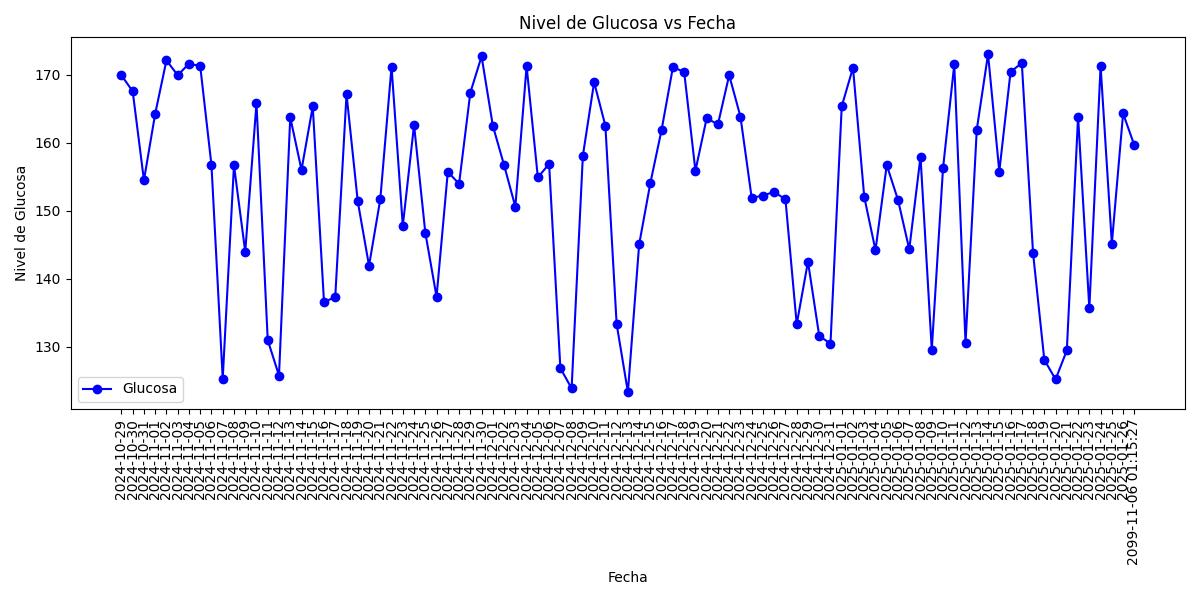
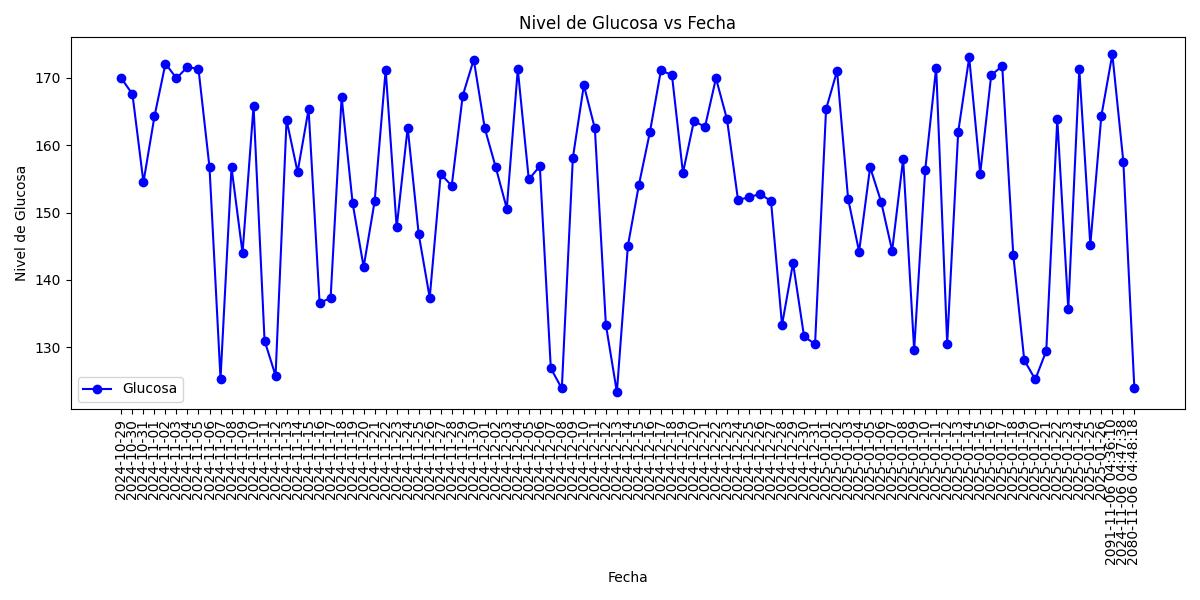
Entradas de datos individuales, ventana de reporte eliminada, ajuste de imagen

diff --git a/src/screens/EntriesScreen.js b/src/screens/EntriesScreen.js
@@ -15,12 +15,15 @@ import { getFirestore, collection, addDoc } from "firebase/firestore";
 import { getAuth } from "firebase/auth";
 import DateTimePicker from '@react-native-community/datetimepicker';
 import { Platform } from 'react-native';
+import axios from 'axios';
+import { Alert } from 'react-native';
+import { IPHOSTLOCAL } from "@env";
 
 const EntriesScreen = () => {
-  const [NivelGlucosa, setNivelGlucosa] = useState('');
+  const [Pasos, setPasos] = useState('');
   const [CarbIngeridos, setCarbIngeridos] = useState('');
-  const [UnidadesInsulina, setUnidadesInsulina] = useState('');
-  const [UnidadesCorrecion, setUnidadesCorrecion] = useState('');
+  const [TasaBasal, setTasaBasal] = useState('');
+  const [VolumenBoloAdministrado, setVolumenBoloAdministrado] = useState('');
   const [RitmoCardiaco, setRitmoCardiaco] = useState('');
   const [CaloriasQuemadas, setCaloriasQuemadas] = useState('');
   const [Fecha, setFecha] = useState(new Date());
@@ -32,34 +35,51 @@ const EntriesScreen = () => {
   const auth = getAuth();
 
   const cleanForm = () => {
-    setNivelGlucosa('');
+    setPasos('');
     setCarbIngeridos('');
-    setUnidadesInsulina('');
-    setUnidadesCorrecion('');
+    setTasaBasal('');
+    setVolumenBoloAdministrado('');
     setRitmoCardiaco('');
     setCaloriasQuemadas('');
     setFecha(new Date());
   };
+  const fetchData = async (endpoint) => {
+    const user = auth.currentUser;
+  
+    try {
+      const response = await axios.get(`${IPHOSTLOCAL}/api/${endpoint}/${user.uid}`, {
+        timeout: 10000,
+      });
+      Alert.alert('Success', response.data.message);
+    } catch (error) {
+      console.error(error);
+      const message = error.response ? error.response.data.message : 'Error de conexión';
+      Alert.alert('Error', message);
+    }
+  };
+  
 
   const handleAddEntry = async () => {
     const user = auth.currentUser;
-
+  
     if (user) {
       const entryData = {
         userId: user.uid,
-        NivelGlucosa,
-        CarbIngeridos,
-        UnidadesInsulina,
-        UnidadesCorrecion,
-        RitmoCardiaco,
         CaloriasQuemadas,
+        RitmoCardiaco,
+        Pasos,
+        TasaBasal,
+        VolumenBoloAdministrado,
+        CarbIngeridos,        
         Fecha,
         createdAt: new Date()
       };
-
+  
       try {
         await addDoc(collection(db, 'entries'), entryData);
         setModalMessage('Entrada añadida correctamente');
+        // Llamar fetchData después de añadir la entrada
+        await fetchData('ModeloEntradaIndividual'); 
       } catch (error) {
         setModalMessage('Error al añadir la entrada');
         console.error('Error al añadir la entrada: ', error);
@@ -72,6 +92,7 @@ const EntriesScreen = () => {
       cleanForm();
     }
   };
+  
 
   const handleDateChange = (event, selectedDate) => {
     if (event.type === "set" && selectedDate) {
@@ -99,18 +120,18 @@ const EntriesScreen = () => {
               </Text>
 
               <FormControl>
-                <FormControl.Label _text={{ color: 'black' }}>Nivel de glucosa</FormControl.Label>
+                <FormControl.Label _text={{ color: 'black' }}>Pasos</FormControl.Label>
                 <Input
-                  value={NivelGlucosa}
-                  onChangeText={setNivelGlucosa}
+                  value={Pasos}
+                  onChangeText={setPasos}
                   bg="white"
-                  placeholder="mg/dL"
+                  placeholder="0"
                   keyboardType="numeric"
                 />
               </FormControl>
 
               <FormControl>
-                <FormControl.Label _text={{ color: 'black' }}>Carbohidratos a consumir</FormControl.Label>
+                <FormControl.Label _text={{ color: 'black' }}>Carbohidratos Ingeridos</FormControl.Label>
                 <Input
                   value={CarbIngeridos}
                   onChangeText={setCarbIngeridos}
@@ -121,10 +142,10 @@ const EntriesScreen = () => {
               </FormControl>
 
               <FormControl>
-                <FormControl.Label _text={{ color: 'black' }}>Unidades de insulina</FormControl.Label>
+                <FormControl.Label _text={{ color: 'black' }}>Tasa Basal</FormControl.Label>
                 <Input
-                  value={UnidadesInsulina}
-                  onChangeText={setUnidadesInsulina}
+                  value={TasaBasal}
+                  onChangeText={setTasaBasal}
                   bg="white"
                   placeholder="UI"
                   keyboardType="numeric"
@@ -132,12 +153,12 @@ const EntriesScreen = () => {
               </FormControl>
 
               <FormControl>
-                <FormControl.Label _text={{ color: 'black' }}>Unidades de corrección</FormControl.Label>
+                <FormControl.Label _text={{ color: 'black' }}>Volumen Bolo Administrado</FormControl.Label>
                 <Input
-                  value={UnidadesCorrecion}
-                  onChangeText={setUnidadesCorrecion}
+                  value={VolumenBoloAdministrado}
+                  onChangeText={setVolumenBoloAdministrado}
                   bg="white"
-                  placeholder="UI"
+                  placeholder="mg/dL"
                   keyboardType="numeric"
                 />
               </FormControl>

diff --git a/src/screens/DashboardScreen.js b/src/screens/DashboardScreen.js
@@ -77,28 +77,36 @@ const DashboardScreen = () => {
 
   return (
     <NativeBaseProvider>
-      <Center flex={1} bg="gray.100">
-        <ScrollView>
-          <Center>
-            {imageUri ? (
-              <Image source={{ uri: imageUri }} alt="Imagen de predicción" size="2xl" />
-            ) : (
-              <Text color="gray.500">Imagen no disponible</Text>
-            )}
-          </Center>
-
-          <VStack space={2} mt={4}>
-            {csvData.length > 0 ? (
-              csvData.map((row, index) => (
-                <Text key={index} color="gray.700">{row.join(', ')}</Text>
-              ))
-            ) : (
-              <Text color="gray.500">Contenido del CSV aparecerá aquí...</Text>
-            )}
-          </VStack>
-        </ScrollView>
+  <Center flex={1} bg="gray.100">
+    <ScrollView>
+      <Center>
+        {imageUri ? (
+          <Image
+            source={{ uri: imageUri }}
+            alt="Imagen de predicción"
+            width={400} // Esto hará que la imagen ocupe el 100% del ancho disponible
+            height={200} // Ajusta la altura según lo que necesites (puedes cambiar este valor)
+          />
+        ) : (
+          <Text color="gray.500">Imagen no disponible</Text>
+        )}
       </Center>
-    </NativeBaseProvider>
+
+      <Center>  
+      <VStack space={2} mt={4}>
+        {csvData.length > 0 ? (
+          csvData.map((row, index) => (
+            <Text key={index} color="gray.700">{row.join(', ')}</Text>
+          ))
+        ) : (
+          <Text color="gray.500">Contenido del CSV aparecerá aquí...</Text>
+        )}
+      </VStack>
+      </Center>
+    </ScrollView>
+  </Center>
+</NativeBaseProvider>
+
   );
 };
 

diff --git a/src/screens/Home.js b/src/screens/Home.js
@@ -23,9 +23,7 @@ const Home = () => {
             iconName = 'home'; 
           } else if (route.name === 'Entries') {
             iconName = 'calendar'; 
-          } else if (route.name === 'Reports') {
-            iconName = 'bar-chart';
-          } else if (route.name === 'Profile') {
+          }else if (route.name === 'Profile') {
             iconName = 'user';
           } else if (route.name === 'Model') {
             iconName = 'codepen';
@@ -38,7 +36,6 @@ const Home = () => {
     >
       <Tab.Screen name="Dashboard" component={DashboardScreen} />
       <Tab.Screen name="Entries" component={EntriesScreen} />
-      <Tab.Screen name="Reports" component={ReportScreen} />
       <Tab.Screen name="Model" component={ModelScreen} />
       <Tab.Screen name="Profile" component={ProfileScreen} />
     </Tab.Navigator>

diff --git a/BackEnd/app.py b/BackEnd/app.py
@@ -3,8 +3,19 @@ import os
 import threading
 from entrenar import procesar_glucosa
 from entrenarIndividual import procesar_glucosaIndividual
+import firebase_admin
+from firebase_admin import credentials, firestore
+
+# Inicializar Firebase fuera de cualquier función
+if not firebase_admin._apps:
+    cred = credentials.Certificate('BackEnd/appdiabetes-75037-firebase-adminsdk-cm6u3-4b8d33055b.json')  # Reemplaza con la ruta a tu archivo JSON
+    firebase_admin.initialize_app(cred)
+
+db = firestore.client()
 
 app = Flask(__name__)
+
+
 
 BASE_DIR = os.path.dirname(os.path.abspath(__file__))  # Ruta del archivo actual
 UPLOAD_FOLDER = os.path.join(BASE_DIR, 'uploads')
@@ -20,6 +31,16 @@ def train_model_in_background(file_path):
     except Exception as e:
         print(f"Error al procesar el archivo: {str(e)}")
 
+
+def train_model_individual(userID):
+    try:
+        procesar_glucosaIndividual(userID)
+        print(f"Modelo actualizado para el usuario: '{userID}'.")
+    except Exception as e:
+        print(f"Error al procesar la petición: {str(e)}")
+
+
+
 @app.route('/api/train-model/<user_id>', methods=['GET'])
 def train_model(user_id):
     file_path = os.path.join(UPLOAD_FOLDER, f'{user_id}_latest.csv')
@@ -29,6 +50,13 @@ def train_model(user_id):
     
     threading.Thread(target=train_model_in_background, args=(file_path,)).start()
     return jsonify(message="Entrenamiento del modelo iniciado."), 202
+    
+@app.route('/api/ModeloEntradaIndividual/<user_id>', methods=['GET'])
+def train_modelInd(user_id):    
+    threading.Thread(target=train_model_individual, args=(user_id,)).start()
+    return jsonify(message="Entrenamiento del modelo actualizado iniciado."), 202
+
+
 
 @app.route('/api/upload-csv/<user_id>', methods=['POST'])
 def upload_csv(user_id):

diff --git a/BackEnd/entrenarIndividual.py b/BackEnd/entrenarIndividual.py
@@ -8,10 +8,7 @@ import re
 
 def procesar_glucosaIndividual(user_id):
     # Inicializar la aplicación de Firebase Admin
-    cred = credentials.Certificate('BackEnd/appdiabetes-75037-firebase-adminsdk-cm6u3-4b8d33055b.json')  # Reemplaza con la ruta a tu archivo JSON
-    firebase_admin.initialize_app(cred)
     db = firestore.client()
-
     try:
         modelo_diabetes = joblib.load('BackEnd/model_random_forest.pkl')
     except FileNotFoundError:
@@ -62,12 +59,13 @@ def procesar_glucosaIndividual(user_id):
 
 
     # Extrae las características necesarias
+    #date,calories,heart_rate,steps,basal_rate,bolus_volume_delivered,carb_input
     features = [[
         float(entry_data.get('CaloriasQuemadas', 0)),
         float(entry_data.get('RitmoCardiaco', 0)),
-        float(entry_data.get('steps', 0)),  # Asegúrate de tener este campo en tu entrada
-        float(entry_data.get('UnidadesCorrecion', 0)),  # Agrega este campo según tu lógica
-        float(entry_data.get('UnidadesInsulina', 0)),
+        float(entry_data.get('Pasos', 0)),  # Asegúrate de tener este campo en tu entrada
+        float(entry_data.get('TasaBasal', 0)),  # Agrega este campo según tu lógica
+        float(entry_data.get('VolumenBoloAdministrado', 0)),
         float(entry_data.get('CarbIngeridos', 0))
     ]]
     
@@ -104,4 +102,3 @@ def procesar_glucosaIndividual(user_id):
     plt.tight_layout()
     plt.savefig(f'BackEnd/SalidasImagenes/{user_id}_salida.jpg')
 
-procesar_glucosaIndividual("dRApY844yTORDrvXh7ZZ64U58bu2")
